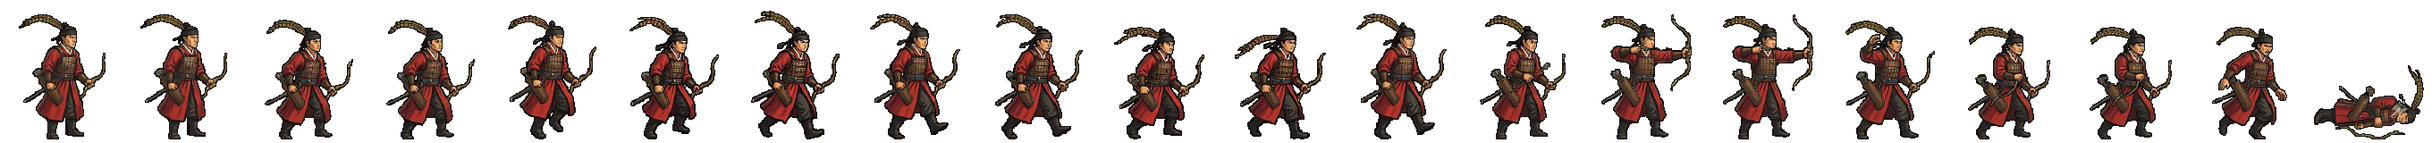
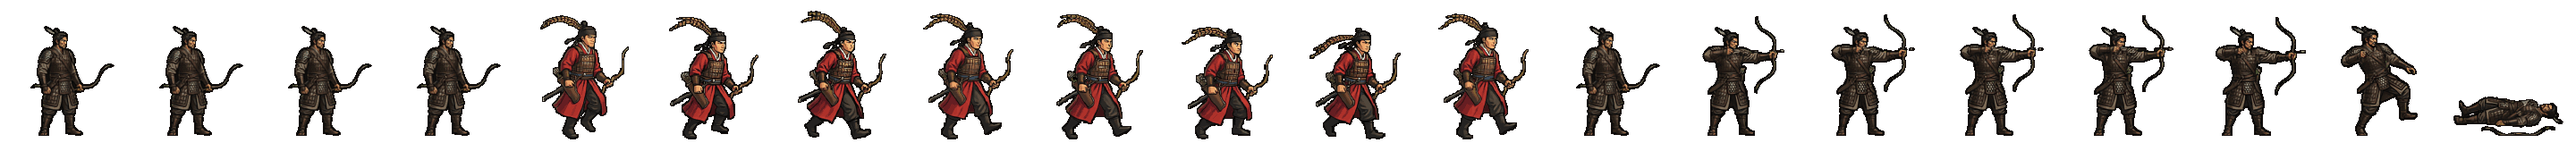
매눈 띠: 동작 8컷만 새로 (제미나이 u/2 · 초상만) — 초상의 검은 비늘 갑옷·깃 하나·활이 칸 안에 (걷기는 그대로 · 붉은 도포 걷기는 보류) · compose20 에 ACT_SHRINK
Claude-Session: https://claude.ai/code/session_01TRiuN9kn81xgdziumEqNAF

diff --git a/src/realm/data/spritePx.ts b/src/realm/data/spritePx.ts
@@ -1,2 +1,2 @@
 /** public/realm/anim-px/manifest.json 의 사본 — tools/sprite-normalize.mjs 가 만든다 (손으로 고치지 말 것). 칸 [가로, 세로] · feet = 발 줄(칸 위에서 y) · bodyPx = 서 있는 몸 키 */
-export const SPRITE_PX: Readonly<Record<string, { readonly cell: readonly [number, number]; readonly feet: number; readonly bodyPx: number; readonly kind: 'general' | 'soldier' | 'folk' | 'crowd'; readonly cells: number }>> = {"axe":{"cell":[166,128],"feet":126,"bodyPx":124,"kind":"soldier","cells":20},"bandit-chief":{"cell":[116,128],"feet":126,"bodyPx":117,"kind":"soldier","cells":20},"bandit-club":{"cell":[127,128],"feet":126,"bodyPx":116,"kind":"soldier","cells":20},"boat":{"cell":[269,128],"feet":126,"bodyPx":126,"kind":"soldier","cells":20},"bow":{"cell":[503,128],"feet":126,"bodyPx":127,"kind":"soldier","cells":20},"crossbow":{"cell":[614,128],"feet":126,"bodyPx":126,"kind":"soldier","cells":20},"gen-adogan":{"cell":[144,160],"feet":156,"bodyPx":70,"kind":"general","cells":20},"gen-alpyeong":{"cell":[144,160],"feet":156,"bodyPx":70,"kind":"general","cells":20},"gen-ara":{"cell":[160,160],"feet":156,"bodyPx":70,"kind":"general","cells":20},"gen-areum":{"cell":[160,160],"feet":156,"bodyPx":70,"kind":"general","cells":20},"gen-aryeong":{"cell":[208,160],"feet":156,"bodyPx":70,"kind":"general","cells":20},"gen-bakdal":{"cell":[160,160],"feet":156,"bodyPx":70,"kind":"general","cells":20},"gen-baram":{"cell":[176,160],"feet":156,"bodyPx":70,"kind":"general","cells":20},"gen-bdanbi":{"cell":[152,160],"feet":156,"bodyPx":70,"kind":"general","cells":20},"gen-beom":{"cell":[168,160],"feet":156,"bodyPx":70,"kind":"general","cells":20},"gen-beombal":{"cell":[216,160],"feet":156,"bodyPx":70,"kind":"general","cells":20},"gen-beomi":{"cell":[160,160],"feet":156,"bodyPx":70,"kind":"general","cells":20},"gen-bira":{"cell":[176,160],"feet":156,"bodyPx":70,"kind":"general","cells":20},"gen-biryu":{"cell":[160,160],"feet":156,"bodyPx":73,"kind":"general","cells":20},"gen-budeul":{"cell":[248,160],"feet":156,"bodyPx":70,"kind":"general","cells":20},"gen-byeol":{"cell":[176,160],"feet":156,"bodyPx":70,"kind":"general","cells":20},"gen-daemusin":{"cell":[152,160],"feet":156,"bodyPx":70,"kind":"general","cells":20},"gen-daeso":{"cell":[176,160],"feet":156,"bodyPx":70,"kind":"general","cells":20},"gen-dallae2":{"cell":[168,160],"feet":156,"bodyPx":70,"kind":"general","cells":20},"gen-dalli":{"cell":[152,160],"feet":156,"bodyPx":70,"kind":"general","cells":20},"gen-damul":{"cell":[152,160],"feet":156,"bodyPx":70,"kind":"general","cells":20},"gen-danbi":{"cell":[152,160],"feet":156,"bodyPx":70,"kind":"general","cells":20},"gen-dangung":{"cell":[192,160],"feet":156,"bodyPx":70,"kind":"general","cells":20},"gen-darae":{"cell":[152,160],"feet":156,"bodyPx":70,"kind":"general","cells":20},"gen-dokmudeom":{"cell":[176,160],"feet":156,"bodyPx":70,"kind":"general","cells":20},"gen-duman":{"cell":[248,160],"feet":156,"bodyPx":70,"kind":"general","cells":20},"gen-eomni":{"cell":[160,160],"feet":156,"bodyPx":70,"kind":"general","cells":20},"gen-eureum":{"cell":[144,160],"feet":156,"bodyPx":70,"kind":"general","cells":20},"gen-g-bow":{"cell":[144,160],"feet":156,"bodyPx":70,"kind":"general","cells":20},"gen-g-spear":{"cell":[208,160],"feet":156,"bodyPx":70,"kind":"general","cells":20},"gen-g-sword":{"cell":[192,160],"feet":156,"bodyPx":70,"kind":"general","cells":20},"gen-gaennae":{"cell":[232,160],"feet":156,"bodyPx":70,"kind":"general","cells":20},"gen-gamsil":{"cell":[160,160],"feet":156,"bodyPx":70,"kind":"general","cells":20},"gen-gaon":{"cell":[152,160],"feet":156,"bodyPx":70,"kind":"general","cells":20},"gen-geota":{"cell":[192,160],"feet":156,"bodyPx":69,"kind":"general","cells":20},"gen-geumbawi":{"cell":[160,160],"feet":156,"bodyPx":70,"kind":"general","cells":20},"gen-geumha":{"cell":[192,160],"feet":156,"bodyPx":72,"kind":"general","cells":20},"gen-goeun":{"cell":[144,160],"feet":156,"bodyPx":70,"kind":"general","cells":20},"gen-gom":{"cell":[168,160],"feet":156,"bodyPx":70,"kind":"general","cells":20},"gen-gomok":{"cell":[152,160],"feet":156,"bodyPx":70,"kind":"general","cells":20},"gen-gureum":{"cell":[216,160],"feet":156,"bodyPx":70,"kind":"general","cells":20},"gen-guryema":{"cell":[152,160],"feet":156,"bodyPx":70,"kind":"general","cells":20},"gen-gwaeyu":{"cell":[200,160],"feet":156,"bodyPx":70,"kind":"general","cells":20},"gen-haebi":{"cell":[152,160],"feet":156,"bodyPx":70,"kind":"general","cells":20},"gen-haedal":{"cell":[152,160],"feet":156,"bodyPx":70,"kind":"general","cells":20},"gen-haesol":{"cell":[168,160],"feet":156,"bodyPx":70,"kind":"general","cells":20},"gen-halla":{"cell":[176,160],"feet":156,"bodyPx":70,"kind":"general","cells":20},"gen-heo":{"cell":[144,160],"feet":156,"bodyPx":70,"kind":"general","cells":20},"gen-hneoul":{"cell":[152,160],"feet":156,"bodyPx":70,"kind":"general","cells":20},"gen-hogong":{"cell":[160,160],"feet":156,"bodyPx":70,"kind":"general","cells":20},"gen-hojin":{"cell":[152,160],"feet":156,"bodyPx":70,"kind":"general","cells":20},"gen-horselord":{"cell":[144,160],"feet":156,"bodyPx":70,"kind":"general","cells":20},"gen-hwalmi":{"cell":[192,160],"feet":156,"bodyPx":70,"kind":"general","cells":20},"gen-hyeokgeose":{"cell":[160,160],"feet":156,"bodyPx":70,"kind":"general","cells":20},"gen-hyeopbo":{"cell":[168,160],"feet":156,"bodyPx":70,"kind":"general","cells":20},"gen-irang":{"cell":[160,160],"feet":156,"bodyPx":70,"kind":"general","cells":20},"gen-jibaekho":{"cell":[224,160],"feet":156,"bodyPx":70,"kind":"general","cells":20},"gen-jinha":{"cell":[168,160],"feet":156,"bodyPx":70,"kind":"general","cells":20},"gen-jita":{"cell":[144,160],"feet":156,"bodyPx":70,"kind":"general","cells":20},"gen-jumong":{"cell":[144,160],"feet":156,"bodyPx":70,"kind":"general","cells":20},"gen-keundol":{"cell":[152,160],"feet":156,"bodyPx":70,"kind":"general","cells":20},"gen-maehwa":{"cell":[144,160],"feet":156,"bodyPx":70,"kind":"general","cells":20},"gen-maenun":{"cell":[136,160],"feet":156,"bodyPx":70,"kind":"general","cells":20},"gen-malgalgi":{"cell":[168,160],"feet":156,"bodyPx":70,"kind":"general","cells":20},"gen-mari":{"cell":[152,160],"feet":156,"bodyPx":70,"kind":"general","cells":20},"gen-maro":{"cell":[160,160],"feet":156,"bodyPx":70,"kind":"general","cells":20},"gen-maryeo":{"cell":[152,160],"feet":156,"bodyPx":70,"kind":"general","cells":20},"gen-mdallae":{"cell":[168,160],"feet":156,"bodyPx":70,"kind":"general","cells":20},"gen-mir":{"cell":[144,160],"feet":156,"bodyPx":70,"kind":"general","cells":20},"gen-mount":{"cell":[232,160],"feet":156,"bodyPx":73,"kind":"general","cells":20},"gen-mulbeom":{"cell":[160,160],"feet":156,"bodyPx":70,"kind":"general","cells":20},"gen-mulsae":{"cell":[168,160],"feet":156,"bodyPx":70,"kind":"general","cells":20},"gen-musoe":{"cell":[152,160],"feet":156,"bodyPx":70,"kind":"general","cells":20},"gen-noeul":{"cell":[160,160],"feet":156,"bodyPx":70,"kind":"general","cells":20},"gen-nuri":{"cell":[168,160],"feet":156,"bodyPx":70,"kind":"general","cells":20},"gen-ocheongan":{"cell":[168,160],"feet":156,"bodyPx":70,"kind":"general","cells":20},"gen-odi":{"cell":[152,160],"feet":156,"bodyPx":70,"kind":"general","cells":20},"gen-odogan":{"cell":[168,160],"feet":156,"bodyPx":70,"kind":"general","cells":20},"gen-ogan":{"cell":[152,160],"feet":156,"bodyPx":70,"kind":"general","cells":20},"gen-oi":{"cell":[152,160],"feet":156,"bodyPx":70,"kind":"general","cells":20},"gen-olddaeso":{"cell":[144,160],"feet":156,"bodyPx":70,"kind":"general","cells":20},"gen-onjo":{"cell":[152,160],"feet":156,"bodyPx":70,"kind":"general","cells":20},"gen-pidogan":{"cell":[152,160],"feet":156,"bodyPx":70,"kind":"general","cells":20},"gen-sagong":{"cell":[160,160],"feet":156,"bodyPx":70,"kind":"general","cells":20},"gen-sdallae":{"cell":[168,160],"feet":156,"bodyPx":70,"kind":"general","cells":20},"gen-sincheongan":{"cell":[168,160],"feet":156,"bodyPx":70,"kind":"general","cells":20},"gen-singwigan":{"cell":[208,160],"feet":156,"bodyPx":70,"kind":"general","cells":20},"gen-sinneoul":{"cell":[176,160],"feet":156,"bodyPx":70,"kind":"general","cells":20},"gen-sobeol":{"cell":[152,160],"feet":156,"bodyPx":70,"kind":"general","cells":20},"gen-soebi":{"cell":[160,160],"feet":156,"bodyPx":70,"kind":"general","cells":20},"gen-soebo":{"cell":[208,160],"feet":156,"bodyPx":72,"kind":"general","cells":20},"gen-soenun":{"cell":[248,160],"feet":156,"bodyPx":70,"kind":"general","cells":20},"gen-sogeumbi":{"cell":[232,160],"feet":156,"bodyPx":70,"kind":"general","cells":20},"gen-songbi":{"cell":[152,160],"feet":156,"bodyPx":70,"kind":"general","cells":20},"gen-songyang":{"cell":[136,160],"feet":156,"bodyPx":70,"kind":"general","cells":20},"gen-sori":{"cell":[208,160],"feet":156,"bodyPx":70,"kind":"general","cells":20},"gen-soseono":{"cell":[208,160],"feet":156,"bodyPx":70,"kind":"general","cells":20},"gen-suro":{"cell":[160,160],"feet":156,"bodyPx":70,"kind":"general","cells":20},"gen-tahae":{"cell":[152,160],"feet":156,"bodyPx":70,"kind":"general","cells":20},"gen-tneoul":{"cell":[152,160],"feet":156,"bodyPx":70,"kind":"general","cells":20},"gen-w-bow":{"cell":[144,160],"feet":156,"bodyPx":70,"kind":"general","cells":20},"gen-w-spear":{"cell":[176,160],"feet":156,"bodyPx":70,"kind":"general","cells":20},"gen-waechief":{"cell":[152,160],"feet":156,"bodyPx":70,"kind":"general","cells":20},"gen-wan":{"cell":[144,160],"feet":156,"bodyPx":70,"kind":"general","cells":20},"gen-yeodogan":{"cell":[176,160],"feet":156,"bodyPx":70,"kind":"general","cells":20},"gen-yucheongan":{"cell":[152,160],"feet":156,"bodyPx":70,"kind":"general","cells":20},"gen-yusugan":{"cell":[168,160],"feet":156,"bodyPx":70,"kind":"general","cells":20},"horse":{"cell":[186,128],"feet":126,"bodyPx":127,"kind":"soldier","cells":20},"marine":{"cell":[298,128],"feet":126,"bodyPx":126,"kind":"soldier","cells":20},"migrant":{"cell":[82,128],"feet":126,"bodyPx":114,"kind":"folk","cells":8},"militia":{"cell":[134,128],"feet":126,"bodyPx":119,"kind":"soldier","cells":20},"pike":{"cell":[380,128],"feet":126,"bodyPx":124,"kind":"soldier","cells":20},"pirate-captain":{"cell":[114,128],"feet":126,"bodyPx":115,"kind":"soldier","cells":20},"pirate-sword":{"cell":[122,128],"feet":126,"bodyPx":114,"kind":"soldier","cells":20},"shield":{"cell":[254,128],"feet":126,"bodyPx":128,"kind":"soldier","cells":20},"spear":{"cell":[438,128],"feet":126,"bodyPx":126,"kind":"soldier","cells":20},"villager-builder":{"cell":[88,128],"feet":126,"bodyPx":113,"kind":"folk","cells":8},"villager-farmer":{"cell":[100,128],"feet":126,"bodyPx":115,"kind":"folk","cells":8},"villager-porter":{"cell":[108,128],"feet":126,"bodyPx":115,"kind":"folk","cells":8},"villager-woman":{"cell":[63,128],"feet":126,"bodyPx":113,"kind":"folk","cells":8},"crowd-b1":{"cell":[69,96],"feet":96,"bodyPx":96,"kind":"crowd","cells":1},"crowd-b2":{"cell":[54,96],"feet":96,"bodyPx":96,"kind":"crowd","cells":1},"crowd-b3":{"cell":[47,96],"feet":96,"bodyPx":96,"kind":"crowd","cells":1},"crowd-b4":{"cell":[49,96],"feet":96,"bodyPx":96,"kind":"crowd","cells":1},"crowd-b5":{"cell":[57,96],"feet":96,"bodyPx":96,"kind":"crowd","cells":1},"crowd-b6":{"cell":[55,96],"feet":96,"bodyPx":96,"kind":"crowd","cells":1},"crowd-f1":{"cell":[69,96],"feet":96,"bodyPx":96,"kind":"crowd","cells":1},"crowd-f2":{"cell":[55,96],"feet":96,"bodyPx":96,"kind":"crowd","cells":1},"crowd-f3":{"cell":[45,96],"feet":96,"bodyPx":96,"kind":"crowd","cells":1},"crowd-f4":{"cell":[53,96],"feet":96,"bodyPx":96,"kind":"crowd","cells":1},"crowd-f5":{"cell":[69,96],"feet":96,"bodyPx":96,"kind":"crowd","cells":1},"crowd-f6":{"cell":[64,96],"feet":96,"bodyPx":96,"kind":"crowd","cells":1},"gen-dalbit":{"cell":[96,72],"feet":72,"bodyPx":72,"kind":"general","cells":20}}
+export const SPRITE_PX: Readonly<Record<string, { readonly cell: readonly [number, number]; readonly feet: number; readonly bodyPx: number; readonly kind: 'general' | 'soldier' | 'folk' | 'crowd'; readonly cells: number }>> = {"axe":{"cell":[166,128],"feet":126,"bodyPx":124,"kind":"soldier","cells":20},"bandit-chief":{"cell":[116,128],"feet":126,"bodyPx":117,"kind":"soldier","cells":20},"bandit-club":{"cell":[127,128],"feet":126,"bodyPx":116,"kind":"soldier","cells":20},"boat":{"cell":[269,128],"feet":126,"bodyPx":126,"kind":"soldier","cells":20},"bow":{"cell":[503,128],"feet":126,"bodyPx":127,"kind":"soldier","cells":20},"crossbow":{"cell":[614,128],"feet":126,"bodyPx":126,"kind":"soldier","cells":20},"gen-adogan":{"cell":[144,160],"feet":156,"bodyPx":70,"kind":"general","cells":20},"gen-alpyeong":{"cell":[144,160],"feet":156,"bodyPx":70,"kind":"general","cells":20},"gen-ara":{"cell":[160,160],"feet":156,"bodyPx":70,"kind":"general","cells":20},"gen-areum":{"cell":[160,160],"feet":156,"bodyPx":70,"kind":"general","cells":20},"gen-aryeong":{"cell":[208,160],"feet":156,"bodyPx":70,"kind":"general","cells":20},"gen-bakdal":{"cell":[160,160],"feet":156,"bodyPx":70,"kind":"general","cells":20},"gen-baram":{"cell":[176,160],"feet":156,"bodyPx":70,"kind":"general","cells":20},"gen-bdanbi":{"cell":[152,160],"feet":156,"bodyPx":70,"kind":"general","cells":20},"gen-beom":{"cell":[168,160],"feet":156,"bodyPx":70,"kind":"general","cells":20},"gen-beombal":{"cell":[216,160],"feet":156,"bodyPx":70,"kind":"general","cells":20},"gen-beomi":{"cell":[160,160],"feet":156,"bodyPx":70,"kind":"general","cells":20},"gen-bira":{"cell":[176,160],"feet":156,"bodyPx":70,"kind":"general","cells":20},"gen-biryu":{"cell":[160,160],"feet":156,"bodyPx":73,"kind":"general","cells":20},"gen-budeul":{"cell":[248,160],"feet":156,"bodyPx":70,"kind":"general","cells":20},"gen-byeol":{"cell":[176,160],"feet":156,"bodyPx":70,"kind":"general","cells":20},"gen-daemusin":{"cell":[152,160],"feet":156,"bodyPx":70,"kind":"general","cells":20},"gen-daeso":{"cell":[176,160],"feet":156,"bodyPx":70,"kind":"general","cells":20},"gen-dallae2":{"cell":[168,160],"feet":156,"bodyPx":70,"kind":"general","cells":20},"gen-dalli":{"cell":[152,160],"feet":156,"bodyPx":70,"kind":"general","cells":20},"gen-damul":{"cell":[152,160],"feet":156,"bodyPx":70,"kind":"general","cells":20},"gen-danbi":{"cell":[152,160],"feet":156,"bodyPx":70,"kind":"general","cells":20},"gen-dangung":{"cell":[192,160],"feet":156,"bodyPx":70,"kind":"general","cells":20},"gen-darae":{"cell":[152,160],"feet":156,"bodyPx":70,"kind":"general","cells":20},"gen-dokmudeom":{"cell":[176,160],"feet":156,"bodyPx":70,"kind":"general","cells":20},"gen-duman":{"cell":[248,160],"feet":156,"bodyPx":70,"kind":"general","cells":20},"gen-eomni":{"cell":[160,160],"feet":156,"bodyPx":70,"kind":"general","cells":20},"gen-eureum":{"cell":[144,160],"feet":156,"bodyPx":70,"kind":"general","cells":20},"gen-g-bow":{"cell":[144,160],"feet":156,"bodyPx":70,"kind":"general","cells":20},"gen-g-spear":{"cell":[208,160],"feet":156,"bodyPx":70,"kind":"general","cells":20},"gen-g-sword":{"cell":[192,160],"feet":156,"bodyPx":70,"kind":"general","cells":20},"gen-gaennae":{"cell":[232,160],"feet":156,"bodyPx":70,"kind":"general","cells":20},"gen-gamsil":{"cell":[160,160],"feet":156,"bodyPx":70,"kind":"general","cells":20},"gen-gaon":{"cell":[152,160],"feet":156,"bodyPx":70,"kind":"general","cells":20},"gen-geota":{"cell":[192,160],"feet":156,"bodyPx":69,"kind":"general","cells":20},"gen-geumbawi":{"cell":[160,160],"feet":156,"bodyPx":70,"kind":"general","cells":20},"gen-geumha":{"cell":[192,160],"feet":156,"bodyPx":72,"kind":"general","cells":20},"gen-goeun":{"cell":[144,160],"feet":156,"bodyPx":70,"kind":"general","cells":20},"gen-gom":{"cell":[168,160],"feet":156,"bodyPx":70,"kind":"general","cells":20},"gen-gomok":{"cell":[152,160],"feet":156,"bodyPx":70,"kind":"general","cells":20},"gen-gureum":{"cell":[216,160],"feet":156,"bodyPx":70,"kind":"general","cells":20},"gen-guryema":{"cell":[152,160],"feet":156,"bodyPx":70,"kind":"general","cells":20},"gen-gwaeyu":{"cell":[200,160],"feet":156,"bodyPx":70,"kind":"general","cells":20},"gen-haebi":{"cell":[152,160],"feet":156,"bodyPx":70,"kind":"general","cells":20},"gen-haedal":{"cell":[152,160],"feet":156,"bodyPx":70,"kind":"general","cells":20},"gen-haesol":{"cell":[168,160],"feet":156,"bodyPx":70,"kind":"general","cells":20},"gen-halla":{"cell":[176,160],"feet":156,"bodyPx":70,"kind":"general","cells":20},"gen-heo":{"cell":[144,160],"feet":156,"bodyPx":70,"kind":"general","cells":20},"gen-hneoul":{"cell":[152,160],"feet":156,"bodyPx":70,"kind":"general","cells":20},"gen-hogong":{"cell":[160,160],"feet":156,"bodyPx":70,"kind":"general","cells":20},"gen-hojin":{"cell":[152,160],"feet":156,"bodyPx":70,"kind":"general","cells":20},"gen-horselord":{"cell":[144,160],"feet":156,"bodyPx":70,"kind":"general","cells":20},"gen-hwalmi":{"cell":[192,160],"feet":156,"bodyPx":70,"kind":"general","cells":20},"gen-hyeokgeose":{"cell":[160,160],"feet":156,"bodyPx":70,"kind":"general","cells":20},"gen-hyeopbo":{"cell":[168,160],"feet":156,"bodyPx":70,"kind":"general","cells":20},"gen-irang":{"cell":[160,160],"feet":156,"bodyPx":70,"kind":"general","cells":20},"gen-jibaekho":{"cell":[224,160],"feet":156,"bodyPx":70,"kind":"general","cells":20},"gen-jinha":{"cell":[168,160],"feet":156,"bodyPx":70,"kind":"general","cells":20},"gen-jita":{"cell":[144,160],"feet":156,"bodyPx":70,"kind":"general","cells":20},"gen-jumong":{"cell":[144,160],"feet":156,"bodyPx":70,"kind":"general","cells":20},"gen-keundol":{"cell":[152,160],"feet":156,"bodyPx":70,"kind":"general","cells":20},"gen-maehwa":{"cell":[144,160],"feet":156,"bodyPx":70,"kind":"general","cells":20},"gen-maenun":{"cell":[144,160],"feet":156,"bodyPx":70,"kind":"general","cells":20},"gen-malgalgi":{"cell":[168,160],"feet":156,"bodyPx":70,"kind":"general","cells":20},"gen-mari":{"cell":[152,160],"feet":156,"bodyPx":70,"kind":"general","cells":20},"gen-maro":{"cell":[160,160],"feet":156,"bodyPx":70,"kind":"general","cells":20},"gen-maryeo":{"cell":[152,160],"feet":156,"bodyPx":70,"kind":"general","cells":20},"gen-mdallae":{"cell":[168,160],"feet":156,"bodyPx":70,"kind":"general","cells":20},"gen-mir":{"cell":[144,160],"feet":156,"bodyPx":70,"kind":"general","cells":20},"gen-mount":{"cell":[232,160],"feet":156,"bodyPx":73,"kind":"general","cells":20},"gen-mulbeom":{"cell":[160,160],"feet":156,"bodyPx":70,"kind":"general","cells":20},"gen-mulsae":{"cell":[168,160],"feet":156,"bodyPx":70,"kind":"general","cells":20},"gen-musoe":{"cell":[152,160],"feet":156,"bodyPx":70,"kind":"general","cells":20},"gen-noeul":{"cell":[160,160],"feet":156,"bodyPx":70,"kind":"general","cells":20},"gen-nuri":{"cell":[168,160],"feet":156,"bodyPx":70,"kind":"general","cells":20},"gen-ocheongan":{"cell":[168,160],"feet":156,"bodyPx":70,"kind":"general","cells":20},"gen-odi":{"cell":[152,160],"feet":156,"bodyPx":70,"kind":"general","cells":20},"gen-odogan":{"cell":[168,160],"feet":156,"bodyPx":70,"kind":"general","cells":20},"gen-ogan":{"cell":[152,160],"feet":156,"bodyPx":70,"kind":"general","cells":20},"gen-oi":{"cell":[152,160],"feet":156,"bodyPx":70,"kind":"general","cells":20},"gen-olddaeso":{"cell":[144,160],"feet":156,"bodyPx":70,"kind":"general","cells":20},"gen-onjo":{"cell":[152,160],"feet":156,"bodyPx":70,"kind":"general","cells":20},"gen-pidogan":{"cell":[152,160],"feet":156,"bodyPx":70,"kind":"general","cells":20},"gen-sagong":{"cell":[160,160],"feet":156,"bodyPx":70,"kind":"general","cells":20},"gen-sdallae":{"cell":[168,160],"feet":156,"bodyPx":70,"kind":"general","cells":20},"gen-sincheongan":{"cell":[168,160],"feet":156,"bodyPx":70,"kind":"general","cells":20},"gen-singwigan":{"cell":[208,160],"feet":156,"bodyPx":70,"kind":"general","cells":20},"gen-sinneoul":{"cell":[176,160],"feet":156,"bodyPx":70,"kind":"general","cells":20},"gen-sobeol":{"cell":[152,160],"feet":156,"bodyPx":70,"kind":"general","cells":20},"gen-soebi":{"cell":[160,160],"feet":156,"bodyPx":70,"kind":"general","cells":20},"gen-soebo":{"cell":[208,160],"feet":156,"bodyPx":72,"kind":"general","cells":20},"gen-soenun":{"cell":[248,160],"feet":156,"bodyPx":70,"kind":"general","cells":20},"gen-sogeumbi":{"cell":[232,160],"feet":156,"bodyPx":70,"kind":"general","cells":20},"gen-songbi":{"cell":[152,160],"feet":156,"bodyPx":70,"kind":"general","cells":20},"gen-songyang":{"cell":[136,160],"feet":156,"bodyPx":70,"kind":"general","cells":20},"gen-sori":{"cell":[208,160],"feet":156,"bodyPx":70,"kind":"general","cells":20},"gen-soseono":{"cell":[208,160],"feet":156,"bodyPx":70,"kind":"general","cells":20},"gen-suro":{"cell":[160,160],"feet":156,"bodyPx":70,"kind":"general","cells":20},"gen-tahae":{"cell":[152,160],"feet":156,"bodyPx":70,"kind":"general","cells":20},"gen-tneoul":{"cell":[152,160],"feet":156,"bodyPx":70,"kind":"general","cells":20},"gen-w-bow":{"cell":[144,160],"feet":156,"bodyPx":70,"kind":"general","cells":20},"gen-w-spear":{"cell":[176,160],"feet":156,"bodyPx":70,"kind":"general","cells":20},"gen-waechief":{"cell":[152,160],"feet":156,"bodyPx":70,"kind":"general","cells":20},"gen-wan":{"cell":[144,160],"feet":156,"bodyPx":70,"kind":"general","cells":20},"gen-yeodogan":{"cell":[176,160],"feet":156,"bodyPx":70,"kind":"general","cells":20},"gen-yucheongan":{"cell":[152,160],"feet":156,"bodyPx":70,"kind":"general","cells":20},"gen-yusugan":{"cell":[168,160],"feet":156,"bodyPx":70,"kind":"general","cells":20},"horse":{"cell":[186,128],"feet":126,"bodyPx":127,"kind":"soldier","cells":20},"marine":{"cell":[298,128],"feet":126,"bodyPx":126,"kind":"soldier","cells":20},"migrant":{"cell":[82,128],"feet":126,"bodyPx":114,"kind":"folk","cells":8},"militia":{"cell":[134,128],"feet":126,"bodyPx":119,"kind":"soldier","cells":20},"pike":{"cell":[380,128],"feet":126,"bodyPx":124,"kind":"soldier","cells":20},"pirate-captain":{"cell":[114,128],"feet":126,"bodyPx":115,"kind":"soldier","cells":20},"pirate-sword":{"cell":[122,128],"feet":126,"bodyPx":114,"kind":"soldier","cells":20},"shield":{"cell":[254,128],"feet":126,"bodyPx":128,"kind":"soldier","cells":20},"spear":{"cell":[438,128],"feet":126,"bodyPx":126,"kind":"soldier","cells":20},"villager-builder":{"cell":[88,128],"feet":126,"bodyPx":113,"kind":"folk","cells":8},"villager-farmer":{"cell":[100,128],"feet":126,"bodyPx":115,"kind":"folk","cells":8},"villager-porter":{"cell":[108,128],"feet":126,"bodyPx":115,"kind":"folk","cells":8},"villager-woman":{"cell":[63,128],"feet":126,"bodyPx":113,"kind":"folk","cells":8},"crowd-b1":{"cell":[69,96],"feet":96,"bodyPx":96,"kind":"crowd","cells":1},"crowd-b2":{"cell":[54,96],"feet":96,"bodyPx":96,"kind":"crowd","cells":1},"crowd-b3":{"cell":[47,96],"feet":96,"bodyPx":96,"kind":"crowd","cells":1},"crowd-b4":{"cell":[49,96],"feet":96,"bodyPx":96,"kind":"crowd","cells":1},"crowd-b5":{"cell":[57,96],"feet":96,"bodyPx":96,"kind":"crowd","cells":1},"crowd-b6":{"cell":[55,96],"feet":96,"bodyPx":96,"kind":"crowd","cells":1},"crowd-f1":{"cell":[69,96],"feet":96,"bodyPx":96,"kind":"crowd","cells":1},"crowd-f2":{"cell":[55,96],"feet":96,"bodyPx":96,"kind":"crowd","cells":1},"crowd-f3":{"cell":[45,96],"feet":96,"bodyPx":96,"kind":"crowd","cells":1},"crowd-f4":{"cell":[53,96],"feet":96,"bodyPx":96,"kind":"crowd","cells":1},"crowd-f5":{"cell":[69,96],"feet":96,"bodyPx":96,"kind":"crowd","cells":1},"crowd-f6":{"cell":[64,96],"feet":96,"bodyPx":96,"kind":"crowd","cells":1},"gen-dalbit":{"cell":[96,72],"feet":72,"bodyPx":72,"kind":"general","cells":20}}

diff --git a/src/realm/data/art.ts b/src/realm/data/art.ts
@@ -489,7 +489,7 @@ export const GEN_ANIM: Readonly<Partial<Record<string, { ar: number; body: numbe
   ogan: { ar: 162 / 160, body: 0.907, bow: true }, // 11-04 제 띠 (u/0 · 높은 상투·턱수염·쇠 미늘·남색 옷·맥궁 · 첫 장은 병사 베옷을 베끼고 글자 꼬리표 → 「모든 컷 같은 옷」을 못 박아 새 대화로)
   damul: { ar: 147 / 160, body: 0.906, bow: true }, // 11-08 초상대로 다시 (형: 「투구 쓰고 원본과 다르다」 · 제미나이 걷기 4×2 + 동작 4×2 → 20컷 · assets_src/realm/gemini/generals2)
   songyang: { ar: 143 / 160, body: 0.950, bow: true }, // 11-08 초상대로 다시 (형: 「투구 쓰고 원본과 다르다」 · 제미나이 걷기 4×2 + 동작 4×2 → 20컷 · assets_src/realm/gemini/generals2)
-  maenun: { ar: 146 / 160, body: 0.955, bow: true }, // 11-04 제 띠 (u/0 · 꿩깃 검은 두건·붉은 두루마기·가죽 미늘·맥궁 · 골포국 살해 매눈)
+  maenun: { ar: 157 / 160, body: 0.955, bow: true }, // 11-11 동작 8컷만 새로(제미나이 u/2 · 초상만 · 비늘 갑옷·깃 하나·활이 칸 안, 걷기는 그대로) · 11-04 제 띠 (u/0 · 꿩깃 검은 두건·붉은 두루마기·가죽 미늘·맥궁 · 골포국 살해 매눈)
   hyeopbo: { ar: 163 / 160, body: 0.887 }, // 11-04 제 띠 (u/0 · 검은 머리띠 상투·가는 콧수염·무늬 검은 도포·가죽 갑옷 · 곧은 고리자루 칼 — 첫 판은 휜 칼이라 버림)
   malgalgi: { ar: 165 / 160, body: 0.906 }, // 11-08 초상대로 다시 (형: 「투구 쓰고 원본과 다르다」 · 제미나이 걷기 4×2 + 동작 4×2 → 20컷 · assets_src/realm/gemini/generals2) · 전투 옷은 더 드러나게 (형 11-08)
   haebi: { ar: 157 / 160, body: 0.900 }, // 11-08 초상대로 다시 (형: 「투구 쓰고 원본과 다르다」 · 제미나이 걷기 4×2 + 동작 4×2 → 20컷 · assets_src/realm/gemini/generals2) · 11-08 처음 · haebi 동작 띠 다시 — 형이 구움 (굽기 꾸러미 · 검수 1·3번)

diff --git a/src/ui/realm/battle-strikes.ts b/src/ui/realm/battle-strikes.ts
@@ -127,7 +127,7 @@ interface Actor extends Unit {
 const RELEASE: Readonly<Record<string, [number, number, number]>> = {
   bow: [14, .614, .34], crossbow: [14, .59, .22],
   'gen-g-bow': [14, .82, .35], 'gen-w-bow': [14, .90, .34],
-  'gen-jumong': [14, 0.97, 0.34], 'gen-maenun': [14, .88, .34],
+  'gen-jumong': [14, 0.97, 0.34], 'gen-maenun': [14, .87, .31],
   'gen-ogan': [14, .87, .32], 'gen-haedal': [14, 0.91, 0.26],
   'gen-songbi': [14, 0.91, 0.24], 'gen-damul': [14, 0.98, 0.33],
   'gen-songyang': [14, 0.91, 0.28],

diff --git a/tools/sprite-kit/compose20.py b/tools/sprite-kit/compose20.py
@@ -25,7 +25,8 @@ def bbox_h(c):
 
 rc, ac = cells(R), cells(A)
 run_h = float(np.median([bbox_h(c) for c in rc]))
-k = run_h / max(1, bbox_h(ac[0]))
+import os
+k = run_h / max(1, bbox_h(ac[0])) * float(os.environ.get('ACT_SHRINK', '1'))  # 활 윗끝이 머리 위로 솟는 띠는 0.92 쯤 (11-11 매눈)
 ac = [c.resize((max(1, round(c.width * k)), max(1, round(c.height * k))), Image.Resampling.LANCZOS) for c in ac]
 amap = [int(v) - 1 for v in (sys.argv[4] if len(sys.argv) > 4 and sys.argv[4] else "1,2,3,3,4,5,6,8").split(",")]
 order = [ac[amap[0]]] * 4 + rc + [ac[i] for i in amap]
